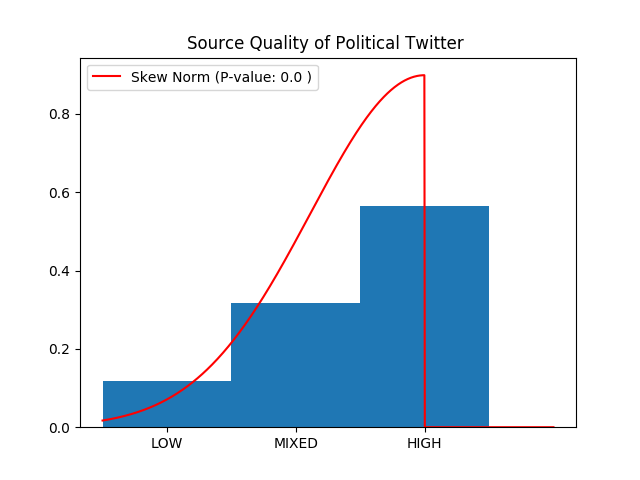
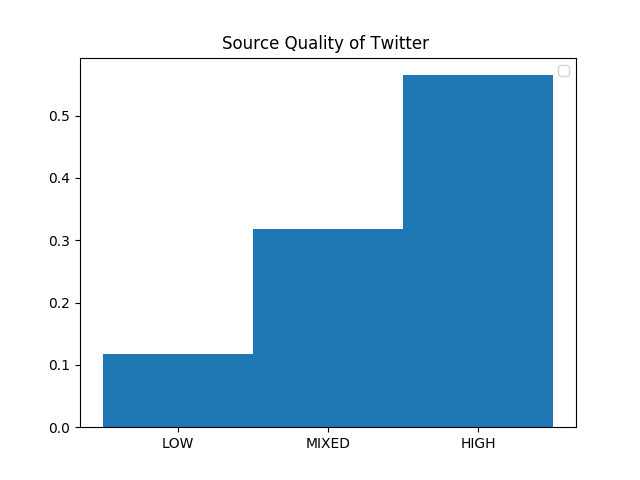
Uploaded new images

diff --git a/bias_check.py b/bias_check.py
@@ -107,10 +107,10 @@ def quality_check(sources):
 	D,p_val = stats.ks_2samp(rvs, data_points)
 
 	plt.bar([x[0] for x in vals], [x[1]/total for x in vals], width=1)
-	plt.plot(X_plot, pdf , color = 'r', label = "Skew Norm (P-value: "+str(p_val)+" )")
+	# plt.plot(X_plot, pdf , color = 'r', label = "Skew Norm (P-value: "+str(p_val)+" )")
 	# # plt.plot(X_plot[:,0],np.exp(cos_pdf) , color = 'g', label = "Cosine KDE")
 	
-	plt.title("Source Quality of Political Twitter ")
+	plt.title("Source Quality of Twitter ")
 	plt.legend()
 	plt.show()
 	# plt.savefig("t.png")
@@ -127,8 +127,8 @@ def main():
 			sources[ext.domain] = (lines[3], lines[4].strip())
 			# print(ext.domain, lines[3], lines[4])
 		counter +=1
-	bias_check(sources)
-	# quality_check(sources)
+	# bias_check(sources)
+	quality_check(sources)
 
 
 main()
